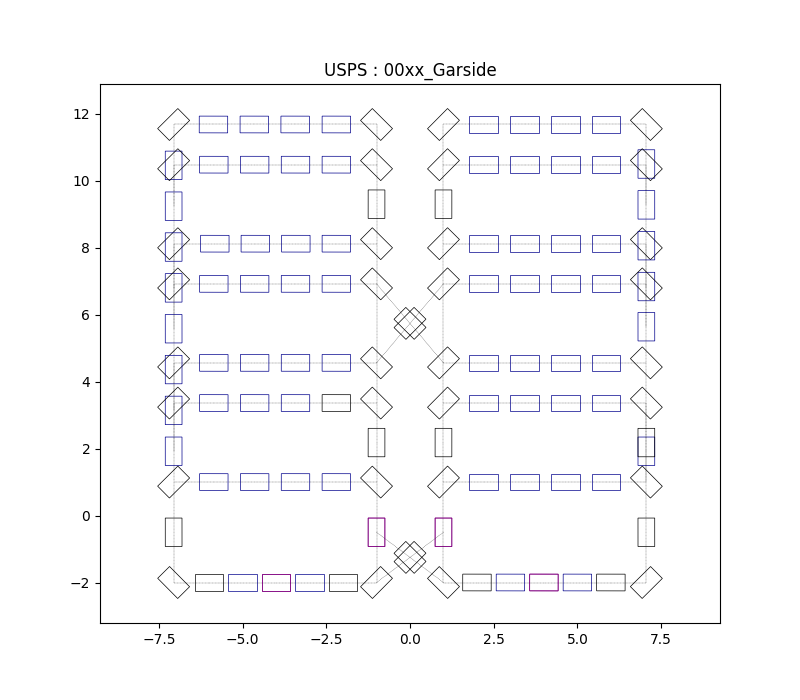
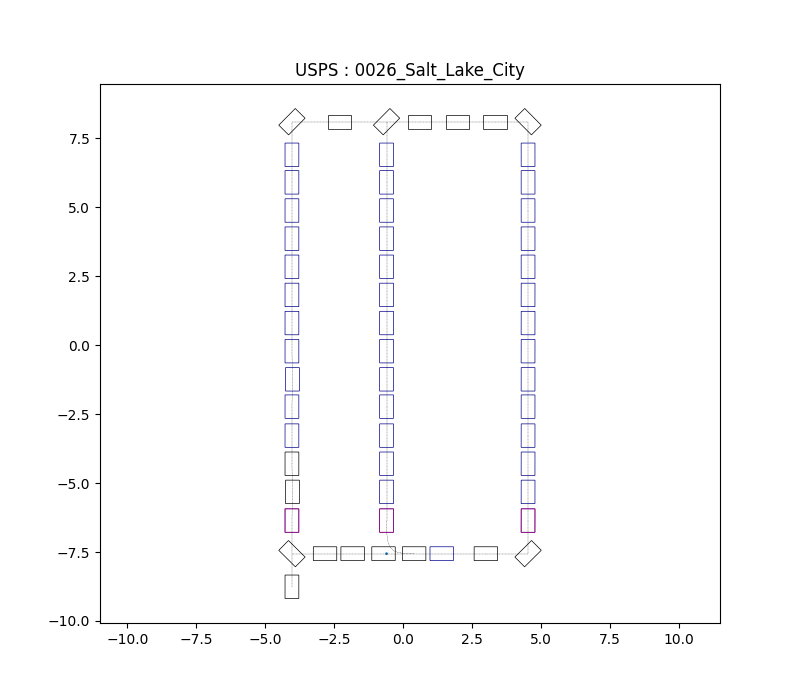
New x and y axis limits in the plot

diff --git a/code/FPenv.py b/code/FPenv.py
@@ -394,8 +394,8 @@ def render(self, td, actions=None, ax=None):
     ax.scatter(x_start, y_start, color="tab:green", s=100, edgecolors="black", zorder=10)
 
     # Setup limits and show
-    ax.set_xlim(-0.05, 1.05)
-    ax.set_ylim(-0.05, 1.05)
+    ax.set_xlim(-10.00, 10.00)
+    ax.set_ylim(-10.00, 10.00)
 
 
 def process_fp(self, fp_path: str):

diff --git a/code/Floorplan_Codes/run.py b/code/Floorplan_Codes/run.py
@@ -16,7 +16,7 @@ if __name__ == "__main__":
 
     # gen_pdf(ids, "results/")
 
-    plotter = FloorplanPlotter("../Floorplans/USPS/00xx_Garside/floorplan.json")
+    plotter = FloorplanPlotter("../Floorplans/USPS/0026_Salt_Lake_City/floorplan.json")
     plotter.plot_design()
     if not os.path.exists("results"):
         os.makedirs("results")
